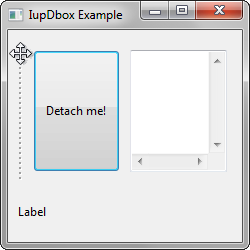
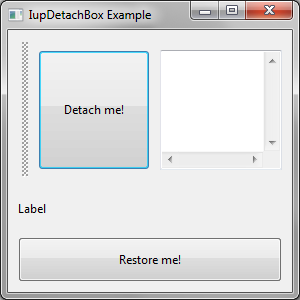
IupDetachBox = new control (fixed some bugs) IupGtkDialog = fixed gtkDialogLayoutUpdateMethod when width = 0 or/and height = 0

diff --git a/iup/src/gtk/iupgtk_dialog.c b/iup/src/gtk/iupgtk_dialog.c
@@ -613,6 +613,8 @@ static void gtkDialogLayoutUpdateMethod(Ihandle *ih)
   /* set size excluding the border */
   width = ih->currentwidth - 2*border;
   height = ih->currentheight - 2*border - caption;   /* menu is inside the client area. */
+  if(width <= 0) width = 1;
+  if(height <= 0) height = 1;
   gtk_window_resize((GtkWindow*)ih->handle, width, height);
 
   if (!iupAttribGetBoolean(ih, "RESIZE"))

diff --git a/iup/src/iup_register.c b/iup/src/iup_register.c
@@ -102,7 +102,7 @@ void iupRegisterInternalClasses(void)
   iupRegisterClass(iupNormalizerNewClass());
   iupRegisterClass(iupSplitNewClass());
   iupRegisterClass(iupExpanderNewClass());
-  iupRegisterClass(iupDboxNewClass());
+  iupRegisterClass(iupDetachBoxNewClass());
 
   iupRegisterClass(iupMenuNewClass());
   iupRegisterClass(iupItemNewClass());

diff --git a/iup/include/iup.h b/iup/include/iup.h
@@ -195,7 +195,7 @@ Ihandle*  IupScrollBox  (Ihandle* child);
 Ihandle*  IupGridBox    (Ihandle* child, ...);
 Ihandle*  IupGridBoxv   (Ihandle **children);
 Ihandle*  IupExpander   (Ihandle *child);
-Ihandle*  IupDbox       (Ihandle *child);
+Ihandle*  IupDetachBox  (Ihandle *child);
 
 Ihandle*  IupFrame      (Ihandle* child);
 

diff --git a/iup/src/iup_stdcontrols.h b/iup/src/iup_stdcontrols.h
@@ -52,7 +52,7 @@ Iclass* iupSplitNewClass(void);
 Iclass* iupScrollBoxNewClass(void);
 Iclass* iupGridBoxNewClass(void);
 Iclass* iupExpanderNewClass(void);
-Iclass* iupDboxNewClass(void);
+Iclass* iupDetachBoxNewClass(void);
 
 Iclass* iupTimerNewClass(void);
 Iclass* iupImageNewClass(void);
